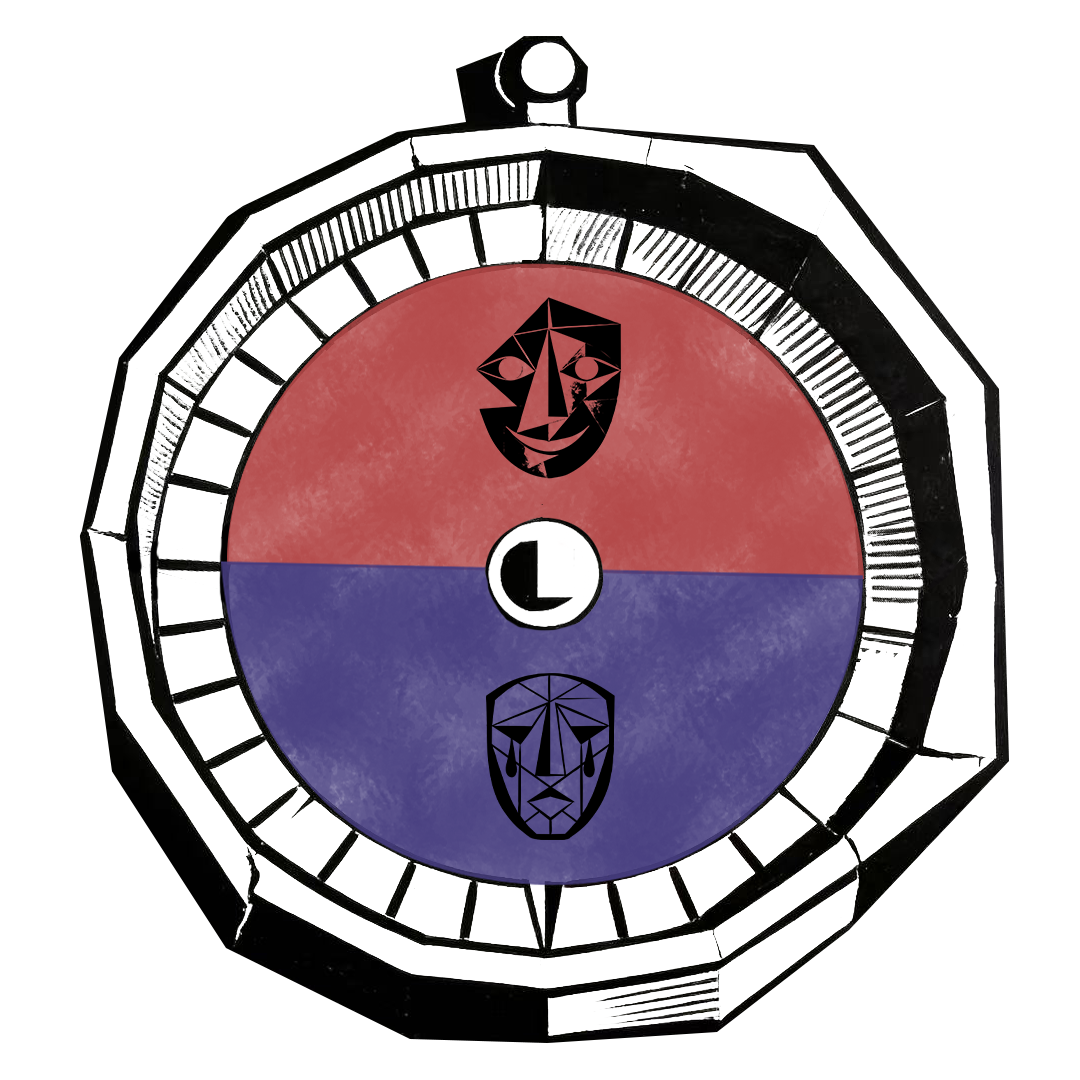
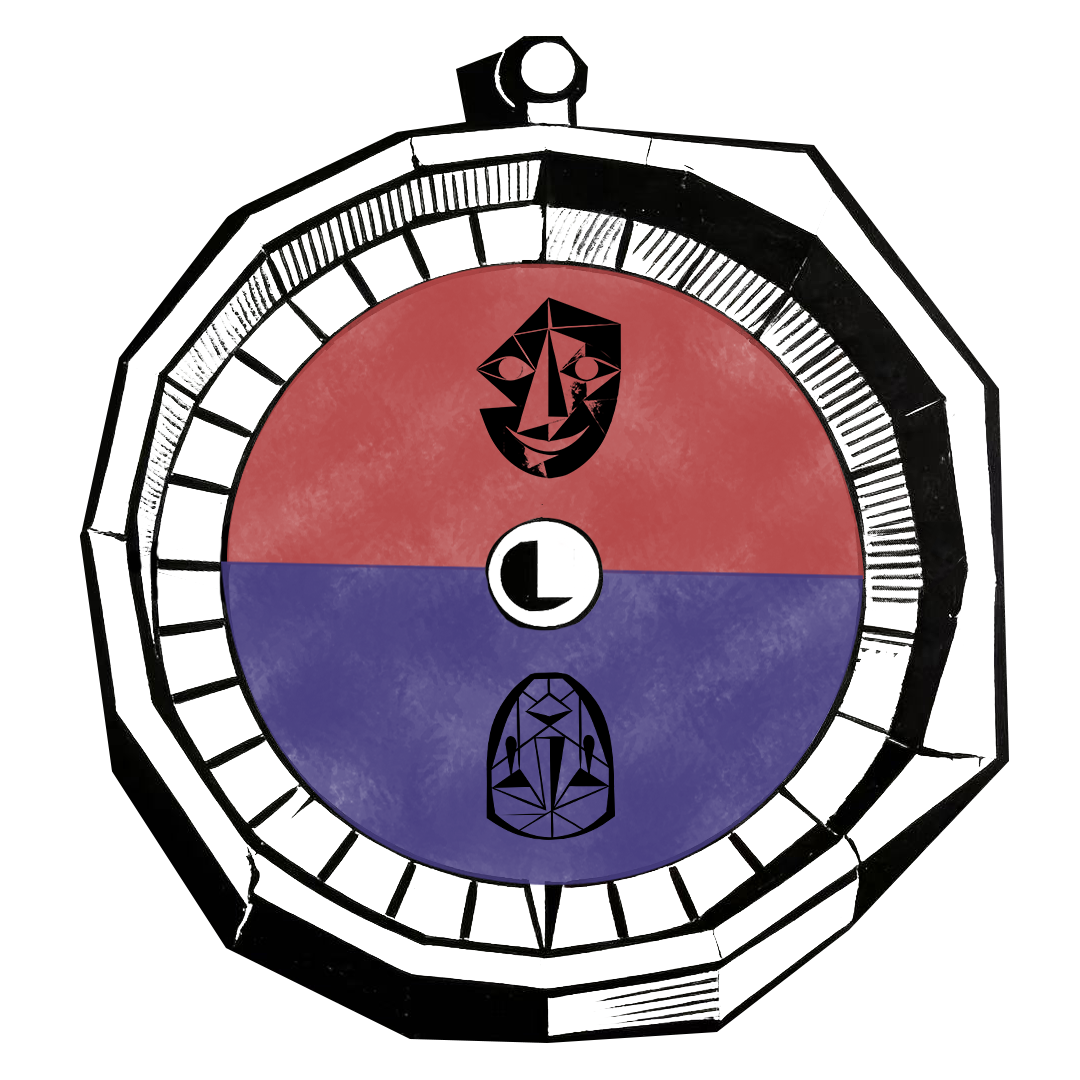
玩家脸谱切换

Changed region(s): [[0.4278, 0.6111, 0.5806, 0.7944]]

diff --git a/Assets/Resource/Pac-Man/Assets/Scirips/PacmanMove.cs b/Assets/Resource/Pac-Man/Assets/Scirips/PacmanMove.cs
@@ -1,36 +1,42 @@
 using UnityEngine;
-using UnityEngine.UI; // 【必须添加】用于识别 Image 组件
 
 public class PacmanMove : MonoBehaviour
 {
     public float speed = 0.35f;
     private Vector2 des = Vector2.zero;
 
-    [Header("UI引用")]
-    public Image faceImage;        // 拖入 FaceDisplay 的 Image 组件
+    [Header("玩家图片引用")]
+    // 改为 SpriteRenderer，拖入带有 SpriteRenderer 的物体（通常就是玩家自己）
+    public SpriteRenderer playerSpriteRenderer;
 
     private void Start()
     {
         des = transform.position;
+
+        // 自动初始化：如果没手动拖入，尝试获取自己身上的 SpriteRenderer
+        if (playerSpriteRenderer == null)
+        {
+            playerSpriteRenderer = GetComponent<SpriteRenderer>();
+        }
     }
 
     private void FixedUpdate()
     {
-        // 1. 处理移动（无论是否笑脸，先完成当前的插值移动到格子点）
+        // 1. 处理移动（插值移动到格子点）
         Vector2 temp = Vector2.MoveTowards(transform.position, des, speed);
         GetComponent<Rigidbody2D>().MovePosition(temp);
 
         // 2. 当到达一个格子的中心点时，尝试获取下一个指令
         if ((Vector2)transform.position == des)
         {
-            // --- 【核心修改开始】 ---
+            // --- 【核心逻辑】 ---
 
-            // 首先判断是否可以移动
             bool canMove = true;
-            if (faceImage != null && faceImage.sprite != null)
+            if (playerSpriteRenderer != null && playerSpriteRenderer.sprite != null)
             {
-                // 如果当前图片的名字是笑脸（请把 "SmileFaceName" 替换为你图片的真实名字）
-                if (faceImage.sprite.name == "Smile")
+                // 如果当前图片的名字是 Smile，则不能移动
+                // 请确保你在 PointerRotate 脚本里设置的图片文件名确实叫 "Smile"
+                if (playerSpriteRenderer.sprite.name == "Smile")
                 {
                     canMove = false;
                 }
@@ -57,8 +63,6 @@ public class PacmanMove : MonoBehaviour
                 }
             }
 
-            // --- 【核心修改结束】 ---
-
             // 获取移动方向并设置动画
             Vector2 dir = des - (Vector2)transform.position;
             GetComponent<Animator>().SetFloat("DirX", dir.x);
@@ -69,6 +73,7 @@ public class PacmanMove : MonoBehaviour
     private bool valid(Vector2 dir)
     {
         Vector2 pos = transform.position;
+        // 注意：Linecast 检测路径上是否有障碍物
         RaycastHit2D hit = Physics2D.Linecast(pos + dir, pos);
         return (hit.collider == GetComponent<Collider2D>());
     }
